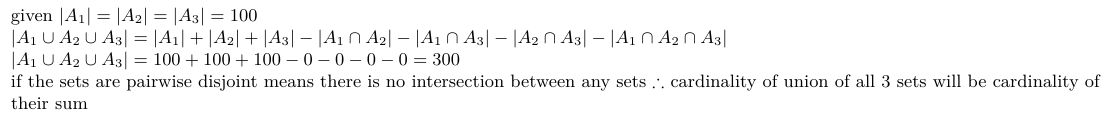
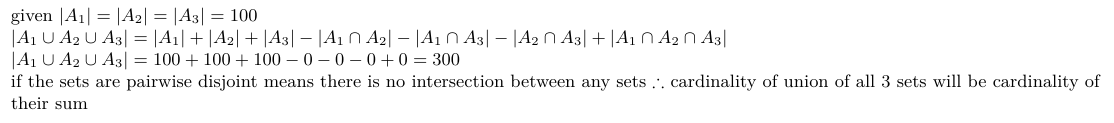
solution 5(c)

diff --git a/chapter_8_advanced_counting_techniques/8.5_inclusion_exclusion/solution.md b/chapter_8_advanced_counting_techniques/8.5_inclusion_exclusion/solution.md
@@ -27,3 +27,6 @@
 
 #### Solution (b)
 ![solution_5_b](https://github.com/cpp-rakesh/discrete_mathematics_and_its_applications/blob/master/chapter_8_advanced_counting_techniques/8.5_inclusion_exclusion/exercises/repo/solution_5_b.png)
+
+#### Solution (c)
+![solution_5_c](https://github.com/cpp-rakesh/discrete_mathematics_and_its_applications/blob/master/chapter_8_advanced_counting_techniques/8.5_inclusion_exclusion/exercises/repo/solution_5_c.png)
